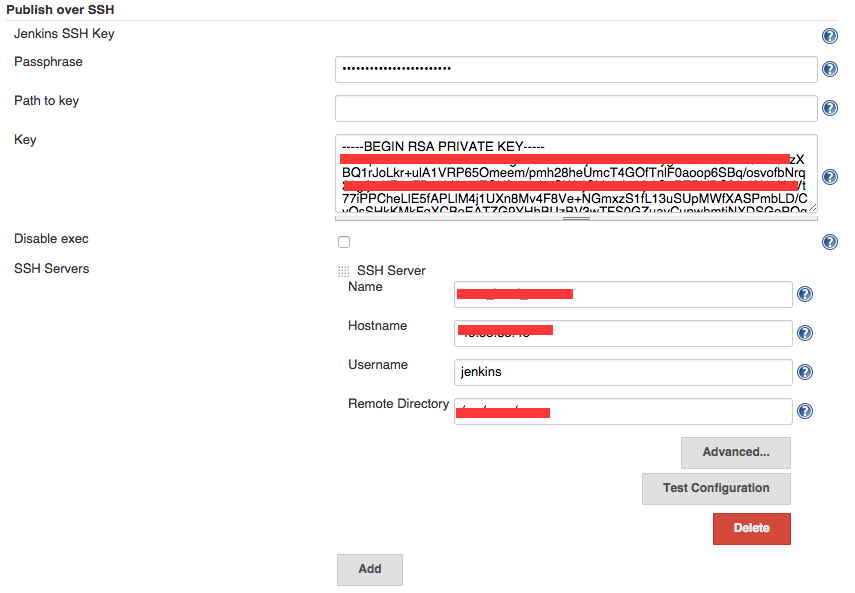
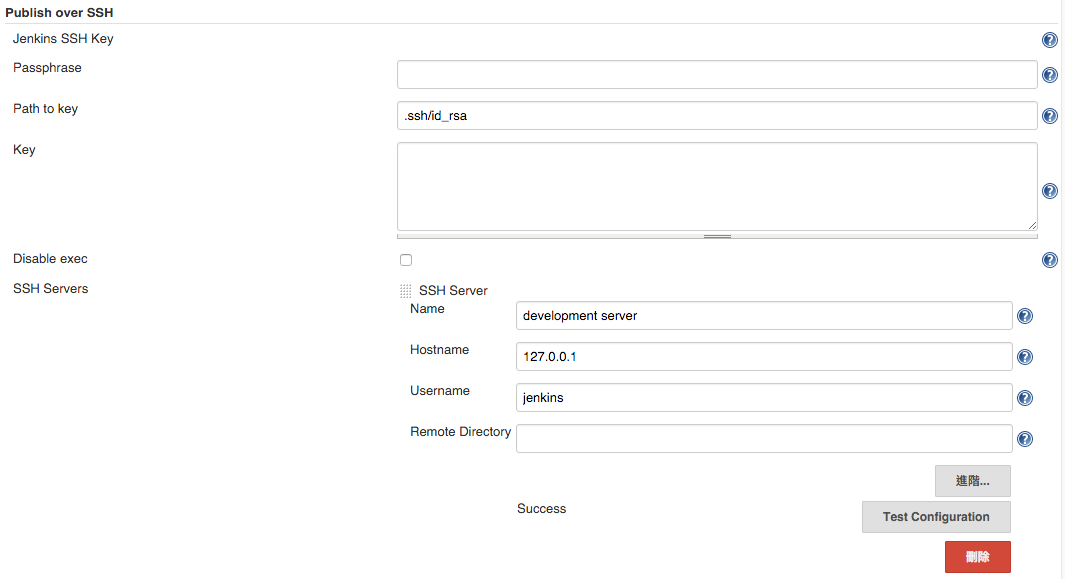
finish ssh and env

diff --git a/setup/env.md b/setup/env.md
@@ -1,0 +1,103 @@
+建置環境設置
+============
+
+可以使用如:
+
+-	[NodeJS Plugin](https://wiki.jenkins-ci.org/display/JENKINS/NodeJS+Plugin)
+-	[Rvm](https://wiki.jenkins-ci.org/display/JENKINS/RVM+Plugin)
+
+但實務上有可能用了 NodeJS Plugin 就會影響 RVM 的運作。
+
+建議的直接使用 jenkins 所設置的 user 把相關的環境設置完成。
+
+確認使用者
+----------
+
+通常安裝完 jenkins 時，在 linux 會幫你建立 jenkins user
+
+在 jenkins CI 底下所做的任何事情大多會透過 jenkins user 來做
+
+我們可以在登入 ubuntu 時透過
+
+`sudo su jenkins` 來切換，該 user 的 home 為 `/var/lib/jenkins`
+
+建立建置環境所需 library
+------------------------
+
+### 安裝 nvm
+
+本實戰將會以 NodeJS 為例，因此我們需要先把需要的版本安裝完成，透過 nvm 來進行 NodeJS 安裝，指令如下：
+
+```
+touch ~/.bashrc
+curl -o- https://raw.githubusercontent.com/creationix/nvm/v0.29.0/install.sh | bash
+```
+
+安裝完之後會在 jenkins user 的 `~/.bashrc` 寫入下列指令
+
+```
+export NVM_DIR="/var/lib/jenkins/.nvm"
+[ -s "$NVM_DIR/nvm.sh" ] && . "$NVM_DIR/nvm.sh"  # This loads nvm
+```
+
+這段最主要的用意就是要把 nvm 載入，之所以需要寫入 `~/.bashrc` 就是要在登入時將 nvm 載入。
+
+如此我們就可以再不依賴 jenkins CI 的 plugin 的協助快速的把開發環境所需資源安裝完成。
+
+第一次安裝 nvm，因為我們是在登入後安裝完成，因此並不會執行到上述指令，透過 `source ~/.bashrc` 來載入
+
+我們可以透過 `nvm --version` 確認已確實載入完成
+
+### 安裝 NodeJS
+
+`nvm install iojs-v1.8`
+
+透過 nvm 的協助我們可以很方便進行 NodeJS 版本切換，這也會使我們在建置時可以很方便的切換版本。
+
+如果你要設置某個版本為預設，可以使用下列指令
+
+`nvm alias default iojs-v1.8`
+
+如此我們可以確認一下目前 NodeJS 的版本
+
+`node -v`
+
+到這邊基本上基本環境已經有了
+
+我們可以在 jenkins CI 建立一個 task 確認一下是否可以正確抓到 node
+
+### jenkins CI check environment
+
+![](images/env/addBuildStep.png)
+
+![](images/env/shellScript.png)
+
+```
+#!/bin/bash
+source ~/.bashrc
+echo '==== check node and nvm ===='
+nvm --version
+node -v
+```
+
+執行結果如下：
+
+```
+Started by user anonymous
+Building in workspace /var/lib/jenkins/jobs/check jenkins environment/workspace
+[workspace] $ /bin/bash /tmp/hudson7479596903861655617.sh
+==== check node and nvm ====
+0.29.0
+v1.8.4
+Finished: SUCCESS
+```
+
+### 不使用 plugin 來安裝相關 library 的好處
+
+除了 task 的執行之外，另外一個原因是，在除錯的過程中讓 jenkins CI 跟 jenkins user 同樣環境設置方式將會有利於加速確認環境是否正確或是有異常時可以直接用 jenkins user 進行 debug
+
+這件事非常重要，因為若都只能用 task 確認，每次確認結果將會比較慢，執行上會比較有挫折感。
+
+相同的，若我們需要新增新的處理，也可以進行直接用 jenkins user 進行，將會更直接的把自動化需求完成，一旦確認沒有問題 理論上再把相關指令讓 jenkins CI 執行就會正確！
+
+TDD 的精神無誤。

diff --git a/setup/ssh.md b/setup/ssh.md
@@ -1,0 +1,39 @@
+SSH
+===
+
+為 jenkins user 建立 ssh key
+----------------------------
+
+ssh 在自動化的過程扮演很重要的角色，因此我們需要先將 jenkins 的 ssh key 產生出來
+
+### 透過 jenkins user 建立 ssh key
+
+`ssh-keygen -t rsa`
+
+default 會產生在 `~/.ssh` 將會有 `id_rsa`, `id_rsa.pub` 這兩個檔案
+
+### 將建立好的 public key 加入到要傳輸的目標機器
+
+`cat ~/.ssh/id_rsa.pub >>~/.ssh/authorized_keys`
+
+有了 ssh key 以便後續自動化進行處理，在 jenkins user 底下執行上述指令，也就表示：
+
+> 把本機當作 stage machine
+
+這樣做的好處是，一旦 stage machine 在其他位置
+
+只要改變 ssh server ip 並且再把 id_rsa.pub 加入對象機器即可，其他程序皆相通
+
+設定 credentials
+----------------
+
+![](images/ssh/createDomain.png)
+
+![](images/ssh/createCredentials.png)
+
+新增 ssh server
+---------------
+
+我們可以先把 jenkins CI server 視為 development 測試環境，因此我們需要進行 ssh server 相關設置
+
+相關設置參考：plugin/[publish over ssh](plugin/publish-over-ssh.md) 透過該章節設置，我們可以確保 ssh 連結正常

diff --git a/plugin/publish-over-ssh.md b/plugin/publish-over-ssh.md
@@ -7,26 +7,16 @@ Publish over SSH
 2.	每日建置完成後需要傳到別台機器進行備份時
 3.	檔案傳輸完成後，需要透過遠端機器進行後續指令執行時
 
-使用前準備
-----------
+使用前準備：建立 ssh key
+------------------------
 
-1.	透過 jenkins user 建立 ssh key
-
-	`ssh-keygen -t rsa`
-
-2.	將建立好的 public key 加入到要傳輸的目標機器
-
-	`cat ~/.ssh/id_rsa.pub >>~/.ssh/authorized_keys`
+參考 plugin/[ssh](setup/ssh.md) 章節設置好 ssh key
 
 plugin 相關設定
 ---------------
 
 進入 jenkins 後台設定，移至 `Publish over SSH` 區塊
 
-Key 的部分需要傳入剛剛建立好的 private key
-
-`cat ~/.ssh/id_rsa`
-
-name 為在 jenkins task 設定時識別名稱 hostname 則為目標機器位置 username 則是你要透過 ssh 登入的使用者帳號 Remote Directory 則是你登入後期望的初始位置
+name 為在 jenkins task 設定時識別名稱 hostname 則為目標機器位置 username 則是你要透過 ssh 登入的使用者帳號 Remote Directory 則是你登入後期望的初始位置，下面是設置的畫面
 
 ![enter image description here](images/publishOverSsh/task_ssh_setting.png)

diff --git a/SUMMARY.md b/SUMMARY.md
@@ -11,7 +11,7 @@ Summary
 -	[設定](setup/README.md)
 
 	-	[環境變數](setup/env.md)
-	-	[credentials](setup/credentials.md)
+	-	[ssh](setup/ssh.md)
 	-	[security](setup/security.md)
 	-	[timezone](setup/timezone.md)
 
